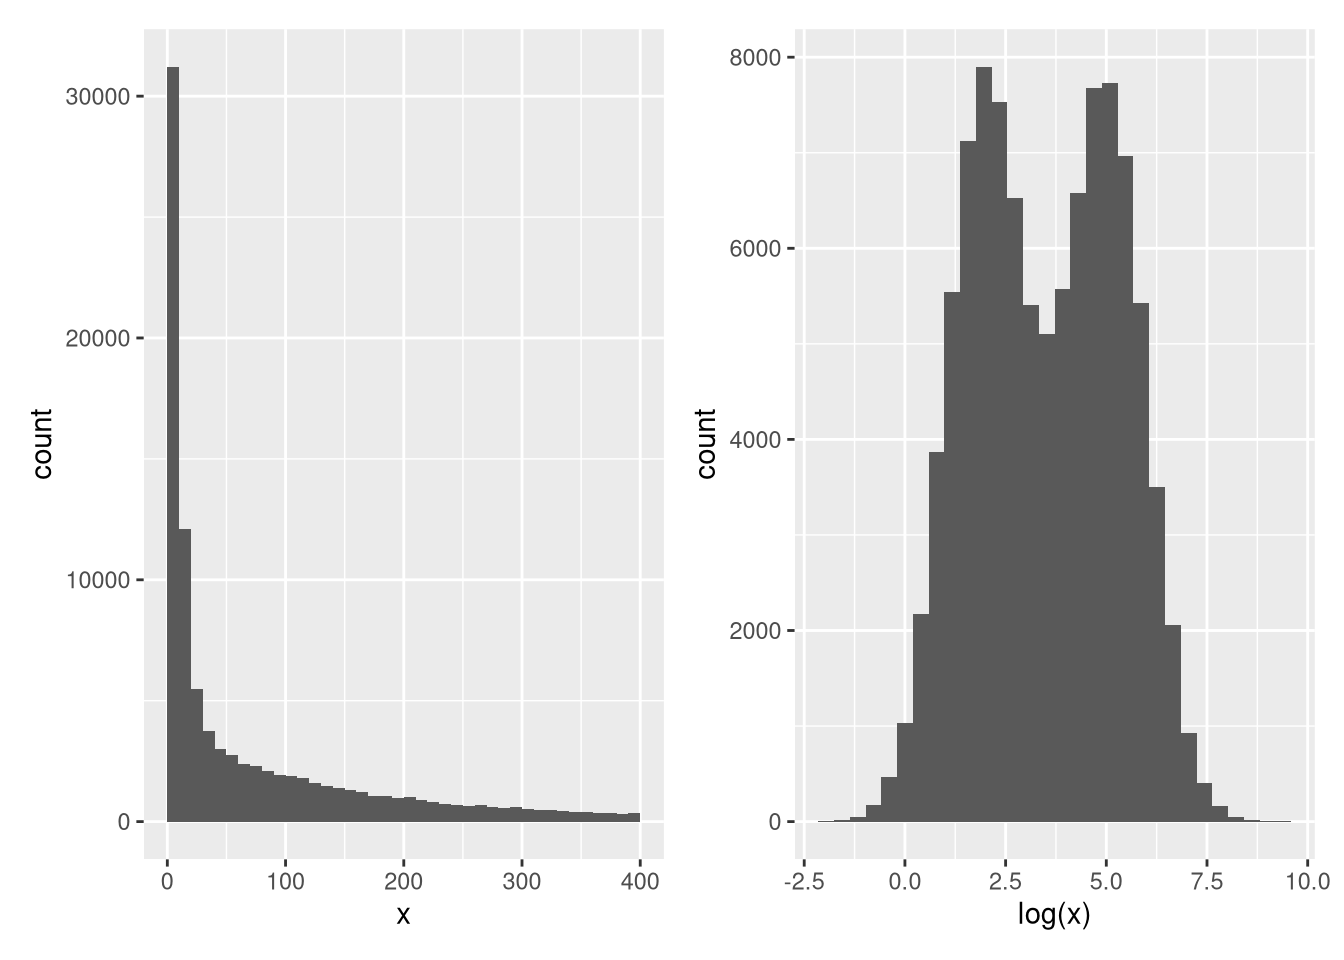
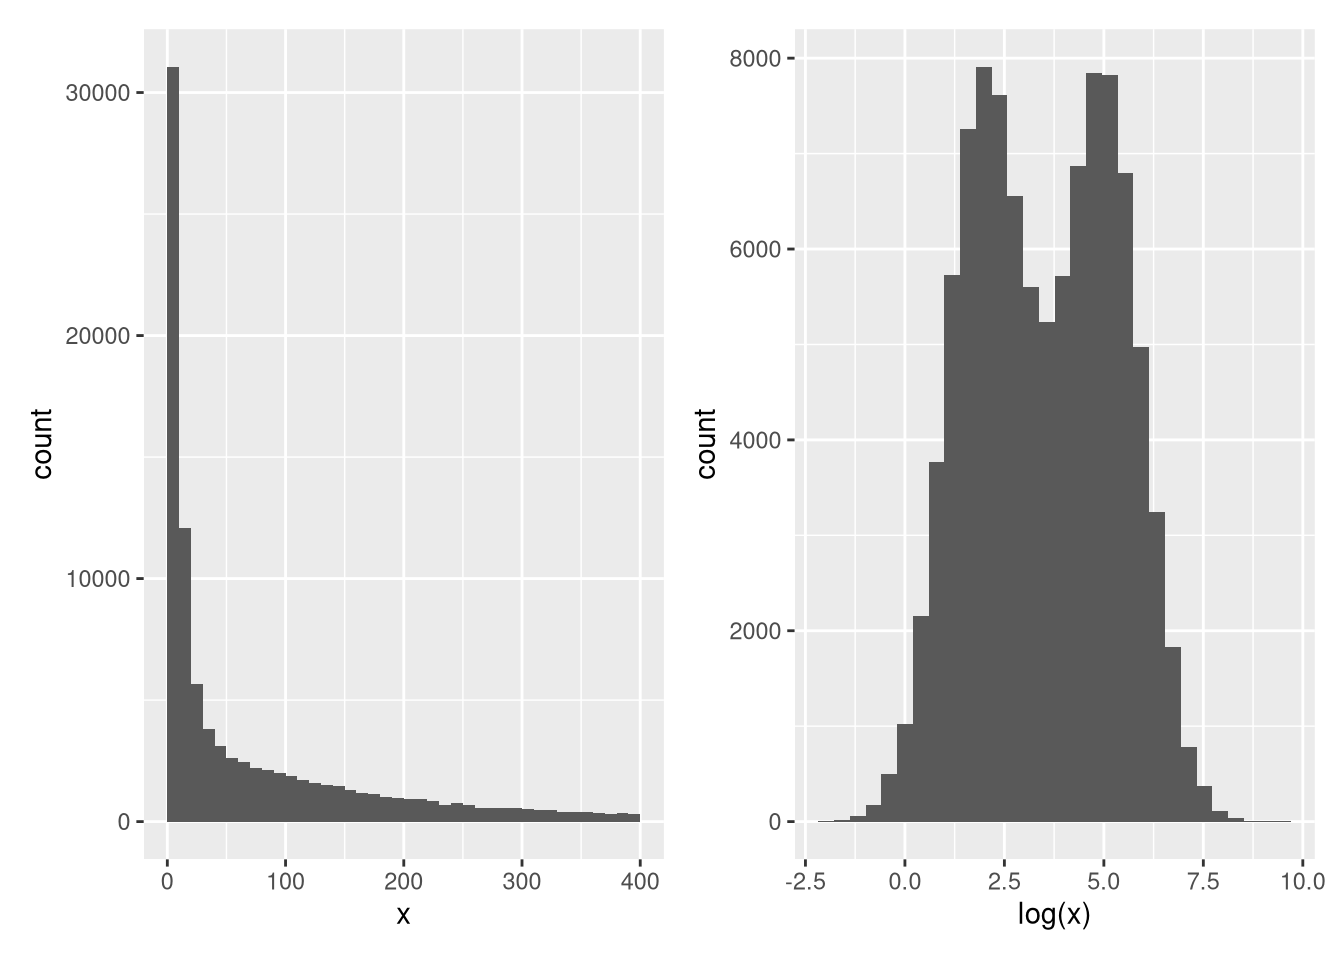
add uniprot download video

diff --git a/docs/sec-si.html b/docs/sec-si.html
@@ -14,7 +14,7 @@
 
 <meta name="author" content="Laurent Gatto" />
 
-<meta name="date" content="2021-10-11" />
+<meta name="date" content="2021-10-15" />
 
 <script type="text/x-mathjax-config">
 MathJax.Hub.Config({
@@ -229,7 +229,7 @@ div.csl-indent {
 ## other attached packages:
 ##  [1] UpSetR_1.4.0                          Vennerable_3.1.0.9000                
 ##  [3] ComplexHeatmap_2.9.4                  class_7.3-19                         
-##  [5] pRoloc_1.33.1                         BiocParallel_1.27.16                 
+##  [5] pRoloc_1.33.1                         BiocParallel_1.27.17                 
 ##  [7] MLInterfaces_1.73.0                   cluster_2.1.2                        
 ##  [9] annotate_1.71.0                       XML_3.99-0.8                         
 ## [11] AnnotationDbi_1.55.1                  bioDist_1.65.0                       
@@ -237,7 +237,7 @@ div.csl-indent {
 ## [15] pRolocdata_1.31.0                     MSnbase_2.19.2                       
 ## [17] ProtGenerics_1.25.2                   mzR_2.27.1                           
 ## [19] Rcpp_1.0.7                            QFeatures_1.3.7                      
-## [21] MultiAssayExperiment_1.19.12          BSgenome.Dmelanogaster.UCSC.dm2_1.4.0
+## [21] MultiAssayExperiment_1.19.16          BSgenome.Dmelanogaster.UCSC.dm2_1.4.0
 ## [23] BSgenome_1.61.0                       rtracklayer_1.53.1                   
 ## [25] Biostrings_2.61.2                     XVector_0.33.0                       
 ## [27] rWSBIM1207_0.1.15                     airway_1.13.0                        
@@ -247,7 +247,7 @@ div.csl-indent {
 ## [35] BiocGenerics_0.39.2                   MatrixGenerics_1.5.4                 
 ## [37] matrixStats_0.61.0                    BiocStyle_2.21.3                     
 ## [39] patchwork_1.1.1                       ggbeeswarm_0.6.0                     
-## [41] plotly_4.9.4.1                        Hmisc_4.6-0                          
+## [41] plotly_4.10.0                         Hmisc_4.6-0                          
 ## [43] Formula_1.2-4                         survival_3.2-13                      
 ## [45] lattice_0.20-45                       forcats_0.5.1                        
 ## [47] stringr_1.4.0                         dplyr_1.0.7                          
@@ -263,7 +263,7 @@ div.csl-indent {
 ##  [10] RCurl_1.98-1.5           AnnotationFilter_1.17.1  doParallel_1.0.16       
 ##  [13] generics_0.1.0           preprocessCore_1.55.2    RSQLite_2.2.8           
 ##  [16] future_1.22.1            proxy_0.4-26             bit_4.0.4               
-##  [19] tzdb_0.1.2               xml2_1.3.2               lubridate_1.7.10        
+##  [19] tzdb_0.1.2               xml2_1.3.2               lubridate_1.8.0         
 ##  [22] assertthat_0.2.1         isoband_0.2.5            viridis_0.6.1           
 ##  [25] gower_0.2.2              xfun_0.26                hms_1.1.1               
 ##  [28] jquerylib_0.1.4          evaluate_0.14            fansi_0.5.0             
@@ -272,7 +272,7 @@ div.csl-indent {
 ##  [37] DBI_1.1.1                htmlwidgets_1.5.4        ellipsis_0.3.2          
 ##  [40] ggpubr_0.4.0             backports_1.2.1          bookdown_0.24           
 ##  [43] biomaRt_2.49.4           vctrs_0.3.8              Cairo_1.5-12.2          
-##  [46] abind_1.4-5              caret_6.0-89             cachem_1.0.6            
+##  [46] abind_1.4-5              caret_6.0-90             cachem_1.0.6            
 ##  [49] withr_2.4.2              msmbstyle_0.0.19         vroom_1.5.5             
 ##  [52] checkmate_2.0.0          GenomicAlignments_1.29.0 prettyunits_1.1.1       
 ##  [55] mclust_5.4.7             segmented_1.3-4          lazyeval_0.2.2          
@@ -322,7 +322,7 @@ the following code:</p>
 <a href="sec-ccl.html"><button class="btn btn-default">Previous</button></a>
 </p>
 <p class="build-date">Page built: 
-2021-10-11
+2021-10-15
  using 
 R version 4.1.0 (2021-05-18)
 </p>

diff --git a/docs/sec-vis.html b/docs/sec-vis.html
@@ -14,7 +14,7 @@
 
 <meta name="author" content="Laurent Gatto" />
 
-<meta name="date" content="2021-10-11" />
+<meta name="date" content="2021-10-15" />
 
 <script type="text/x-mathjax-config">
 MathJax.Hub.Config({
@@ -920,7 +920,7 @@ of the data.</p>
 <span id="cb37-9"><a href="sec-vis.html#cb37-9" aria-hidden="true" tabindex="-1"></a>p2 <span class="ot">&lt;-</span>  <span class="fu">ggplot</span>(sim, <span class="fu">aes</span>(<span class="fu">log</span>(x))) <span class="sc">+</span></span>
 <span id="cb37-10"><a href="sec-vis.html#cb37-10" aria-hidden="true" tabindex="-1"></a>    <span class="fu">geom_histogram</span>(<span class="at">bins =</span> <span class="dv">30</span>)</span>
 <span id="cb37-11"><a href="sec-vis.html#cb37-11" aria-hidden="true" tabindex="-1"></a>p1 <span class="sc">+</span> p2</span></code></pre></div>
-<pre><code>## Warning: Removed 8035 rows containing non-finite values (stat_bin).</code></pre>
+<pre><code>## Warning: Removed 8044 rows containing non-finite values (stat_bin).</code></pre>
 <div class="figure">
 <span style="display:block;" id="fig:sim"></span>
 <p class="caption marginnote shownote">
@@ -1166,7 +1166,7 @@ otherwise. Below are some example outputs.</p>
 <a href="sec-obj.html"><button class="btn btn-default">Next</button></a>
 </p>
 <p class="build-date">Page built: 
-2021-10-11
+2021-10-15
  using 
 R version 4.1.0 (2021-05-18)
 </p>

diff --git a/docs/sec-biostrings.html b/docs/sec-biostrings.html
@@ -14,7 +14,7 @@
 
 <meta name="author" content="Laurent Gatto" />
 
-<meta name="date" content="2021-10-11" />
+<meta name="date" content="2021-10-15" />
 
 <script type="text/x-mathjax-config">
 MathJax.Hub.Config({
@@ -867,7 +867,7 @@ manually reviewed complete human proteome (containing about 20500
 proteins). Do to so, choose <em>Proteomes</em> on the main page, then search
 for <em>Homo sapiens</em>, select it among the list of hits, choose the
 reviewed Swiss-Prot release, and download all entries in compressed
-fasta format.</p>
+fasta format (see <a href="https://youtu.be/K-MVjwZzSoY">video</a>).</p>
 <p class="question-end">
 <span class="fa fa-square-o solution-icon"></span>
 </p>
@@ -941,7 +941,7 @@ proteins.</p>
 <a href="sec-norm.html"><button class="btn btn-default">Next</button></a>
 </p>
 <p class="build-date">Page built: 
-2021-10-11
+2021-10-15
  using 
 R version 4.1.0 (2021-05-18)
 </p>

diff --git a/docs/index.html b/docs/index.html
@@ -14,7 +14,7 @@
 
 <meta name="author" content="Laurent Gatto" />
 
-<meta name="date" content="2021-10-11" />
+<meta name="date" content="2021-10-15" />
 
 <script type="text/x-mathjax-config">
 MathJax.Hub.Config({
@@ -340,7 +340,7 @@ style</a> <span class="citation">(<label for="tufte-mn-10" class="margin-toggle"
 <a href="sec-refresher.html"><button class="btn btn-default">Next</button></a>
 </p>
 <p class="build-date">Page built: 
-2021-10-11
+2021-10-15
  using 
 R version 4.1.0 (2021-05-18)
 </p>

diff --git a/docs/sec-sl.html b/docs/sec-sl.html
@@ -14,7 +14,7 @@
 
 <meta name="author" content="Laurent Gatto" />
 
-<meta name="date" content="2021-10-11" />
+<meta name="date" content="2021-10-15" />
 
 <script type="text/x-mathjax-config">
 MathJax.Hub.Config({
@@ -1054,7 +1054,7 @@ most reliable assignments one, and setting the unreliable ones to
 <a href="sec-biovis.html"><button class="btn btn-default">Next</button></a>
 </p>
 <p class="build-date">Page built: 
-2021-10-11
+2021-10-15
  using 
 R version 4.1.0 (2021-05-18)
 </p>

diff --git a/docs/sec-biovis.html b/docs/sec-biovis.html
@@ -14,7 +14,7 @@
 
 <meta name="author" content="Laurent Gatto" />
 
-<meta name="date" content="2021-10-11" />
+<meta name="date" content="2021-10-15" />
 
 <script type="text/x-mathjax-config">
 MathJax.Hub.Config({
@@ -487,7 +487,7 @@ number of intersectios (default is 40) become useful.</p>
 <a href="sec-ccl.html"><button class="btn btn-default">Next</button></a>
 </p>
 <p class="build-date">Page built: 
-2021-10-11
+2021-10-15
  using 
 R version 4.1.0 (2021-05-18)
 </p>

diff --git a/docs/sec-mlintro.html b/docs/sec-mlintro.html
@@ -14,7 +14,7 @@
 
 <meta name="author" content="Laurent Gatto" />
 
-<meta name="date" content="2021-10-11" />
+<meta name="date" content="2021-10-15" />
 
 <script type="text/x-mathjax-config">
 MathJax.Hub.Config({
@@ -762,7 +762,7 @@ but these are beyond the scope of this course.</p>
 <a href="sec-testing.html"><button class="btn btn-default">Next</button></a>
 </p>
 <p class="build-date">Page built: 
-2021-10-11
+2021-10-15
  using 
 R version 4.1.0 (2021-05-18)
 </p>

diff --git a/docs/sec-obj.html b/docs/sec-obj.html
@@ -14,7 +14,7 @@
 
 <meta name="author" content="Laurent Gatto" />
 
-<meta name="date" content="2021-10-11" />
+<meta name="date" content="2021-10-15" />
 
 <script type="text/x-mathjax-config">
 MathJax.Hub.Config({
@@ -995,7 +995,7 @@ of class <code>SummarizedExperiment</code>.</p>
 <a href="sec-biostrings.html"><button class="btn btn-default">Next</button></a>
 </p>
 <p class="build-date">Page built: 
-2021-10-11
+2021-10-15
  using 
 R version 4.1.0 (2021-05-18)
 </p>

diff --git a/docs/sec-ul.html b/docs/sec-ul.html
@@ -14,7 +14,7 @@
 
 <meta name="author" content="Laurent Gatto" />
 
-<meta name="date" content="2021-10-11" />
+<meta name="date" content="2021-10-15" />
 
 <script type="text/x-mathjax-config">
 MathJax.Hub.Config({
@@ -996,7 +996,7 @@ average marker profiles, such as shown below.</p></li>
 <a href="sec-sl.html"><button class="btn btn-default">Next</button></a>
 </p>
 <p class="build-date">Page built: 
-2021-10-11
+2021-10-15
  using 
 R version 4.1.0 (2021-05-18)
 </p>

diff --git a/docs/sec-norm.html b/docs/sec-norm.html
@@ -14,7 +14,7 @@
 
 <meta name="author" content="Laurent Gatto" />
 
-<meta name="date" content="2021-10-11" />
+<meta name="date" content="2021-10-15" />
 
 <script type="text/x-mathjax-config">
 MathJax.Hub.Config({
@@ -749,7 +749,7 @@ implications for the normalisation step?</p>
 <a href="sec-mlintro.html"><button class="btn btn-default">Next</button></a>
 </p>
 <p class="build-date">Page built: 
-2021-10-11
+2021-10-15
  using 
 R version 4.1.0 (2021-05-18)
 </p>

diff --git a/docs/sec-refresher.html b/docs/sec-refresher.html
@@ -14,7 +14,7 @@
 
 <meta name="author" content="Laurent Gatto" />
 
-<meta name="date" content="2021-10-11" />
+<meta name="date" content="2021-10-15" />
 
 <script type="text/x-mathjax-config">
 MathJax.Hub.Config({
@@ -373,7 +373,7 @@ state it explicitly in your response.</p>
 <a href="sec-vis.html"><button class="btn btn-default">Next</button></a>
 </p>
 <p class="build-date">Page built: 
-2021-10-11
+2021-10-15
  using 
 R version 4.1.0 (2021-05-18)
 </p>

diff --git a/docs/sec-testing.html b/docs/sec-testing.html
@@ -14,7 +14,7 @@
 
 <meta name="author" content="Laurent Gatto" />
 
-<meta name="date" content="2021-10-11" />
+<meta name="date" content="2021-10-15" />
 
 <script type="text/x-mathjax-config">
 MathJax.Hub.Config({
@@ -1129,7 +1129,7 @@ conclusion now?</li>
 <a href="sec-dimred.html"><button class="btn btn-default">Next</button></a>
 </p>
 <p class="build-date">Page built: 
-2021-10-11
+2021-10-15
  using 
 R version 4.1.0 (2021-05-18)
 </p>
